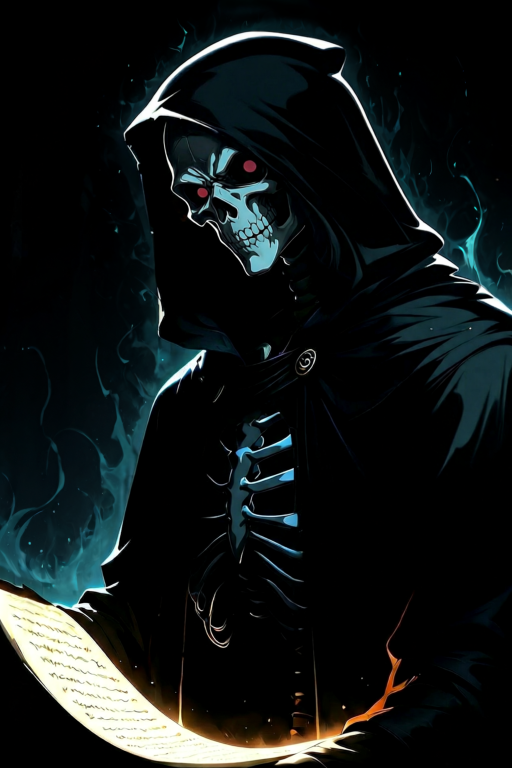
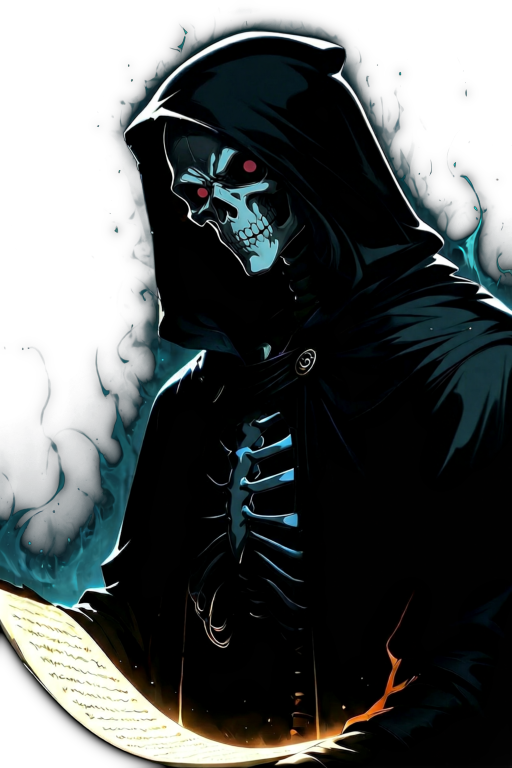
changed reaper image to transparent png

diff --git a/README.md b/README.md
@@ -15,9 +15,7 @@ Traditional library aggregators just give you a psychologically paralyzing wall 
 Whether you need a harsh undead auditor to calculate your financial waste, or a custom anime persona to help you find a co-op game with your friends, the Reaper engine provides the hard data. The soul you summon dictates the reality.
 
 <p align="center">
-	<kbd>
 	    <img src="docs/videos/hero_loop.webp" width="100%" alt="Backlog Reaper in Action">
-    </kbd>
 </p>
 
 ---
@@ -28,9 +26,9 @@ Whether you need a harsh undead auditor to calculate your financial waste, or a 
 **maocide**: Roast my Steam library, Reaper. I bet my backlog isn't even that bad.
 
 > **Reaper's Cognitive Loop:**
-> 1. Sifting through the digital graveyard of maocide's gaming sins... - `get_library_stats` | PARAMS: `{}`
-> 2. Peering into the recent digital footprints of this mortal... - `vault_search` | PARAMS: `{"sort_by": "recent"}`
-> 3. Analyzing the genre rot that festers in this digital tomb... - `get_user_tags` | PARAMS: `{}`
+> 1. *Sifting through the digital graveyard of maocide's gaming sins...* - `get_library_stats` | PARAMS: `{}`
+> 2. *Peering into the recent digital footprints of this mortal...* - `vault_search` | PARAMS: `{"sort_by": "recent"}`
+> 3. *Analyzing the genre rot that festers in this digital tomb...* - `get_user_tags` | PARAMS: `{}`
 
 **Reaper:** **"maocide"**... What a name. Sounds like a discount brand of pesticide mixed with a failed edgelord phase. But let's get to the real poison here - your digital hoarding problem.
 
@@ -78,9 +76,7 @@ By default, you are bound to **The Reaper**, a dark fantasy entity that acts as 
 * **The Dashboard Vault:** Visualize your gaming sins with playtime charts in the Dashboard, or export your entire digital graveyard as a CSV from the Backlog tab.
 
 <p align="center">
-<kbd>
   <img src="docs/images/dashboard_stats.png" alt="Backlog Reaper Dashboard Analytics">
-</kbd>
 </p>
 
 ---
@@ -188,9 +184,7 @@ Alright, let me break down this pathetic social situation for you:
 **Your best bets for co-op right now:**
 
 <p align="left">
-<kbd>
   <img src="docs/images/cards_output_matchmaking.png" alt="Cards output from the software interface">
-</kbd>
 </p>
 
 **My recommendation:** Message **AshKetchdem** and ask if he wants to play **HELLDIVERS™ 2**. He's online right now, he owns it (5.7 hours played), and you have 289.9 hours in it. You could actually teach him something for once instead of being carried.
@@ -250,7 +244,7 @@ What's it going to be, hoarder? More digital clutter, or actual progress?
 
 ---
 
-## 🎭 The BYOW System (Bring Your Own Waifu / Persona)
+## 🃏 The BYOW System (Bring Your Own Waifu / Persona)
 Tired of the edgy skeleton guy? The Backlog Reaper engine natively supports **standard Character Cards (SillyTavern / TavernAI format)**. Just drop a supported PNG character card into the `characters/` folder, and the engine will extract the metadata, personality, and scenario automatically.
 
 Whether you want to be audited by an anime waifu, a stoic husbando, a Space Marine drill sergeant, or a sarcastic toaster, the Reaper engine provides the hard data; your custom character card completely dictates the vibe.
@@ -259,20 +253,16 @@ Whether you want to be audited by an anime waifu, a stoic husbando, a Space Mari
 Included in the base repository is **Sibyl**, a mystical digital oracle. Instead of aggressively roasting your "pile of shame," she gently reads your Steam library through her crystall ball or using a tragic tarot deck, referring to your unplayed games as "abandoned destinies" and "clouded auras."  
 > *"I sense a soul craving shadows and whispers... Let me peer into the depths of your collection, where the light fears to tread."*
 <p align="center">
-<kbd>
   <img src="docs/images/sybil_chat_screenshot.png" alt="Sybil answering the user request calling vibe search function">
-</kbd>
 </p>
 
-### 🔄 Infinite Modularity
+### 🌀 The Summoning Circle
 Because the engine adapts entirely to the imported Persona, your experience completely changes based on who you summon:
 
-* **The Aggressive Social Auditor (e.g., imported Asuka PNG)**
+* **The Aggressive Social Auditor (e.g., imported Asuka Card)**
 > *"Anta baka?! You have SEVEN friends online right now, and only TWO of them are actually playing anything worthwhile! Unearth[PL] is playing Injustice 2, probably button-mashing like a child. Pick a game from your backlog and actually finish it, or I'll sync your neural patterns to a training simulation so intense you'll wish you were fighting Angels!"*
-<p align="center">  
-<kbd>
+<p align="center">
   <img src="docs/images/asuka_chat_screenshot.png" alt="Asuka quickly checking the user friends list">
-</kbd>
 </p>
 
 ---
@@ -291,9 +281,7 @@ Backlog Reaper is built for power users who demand data sovereignty, cost effici
 ## 🕯 The Summoning Ritual (Installation)
 
 <p align="center">  
-<kbd>
   <img src="docs/images/login_ritual.png" alt="Sign the Ledger Initial Setup">
-</kbd>
 </p>
 
 1. Download the latest `.exe` release from the [Releases](#) tab.
